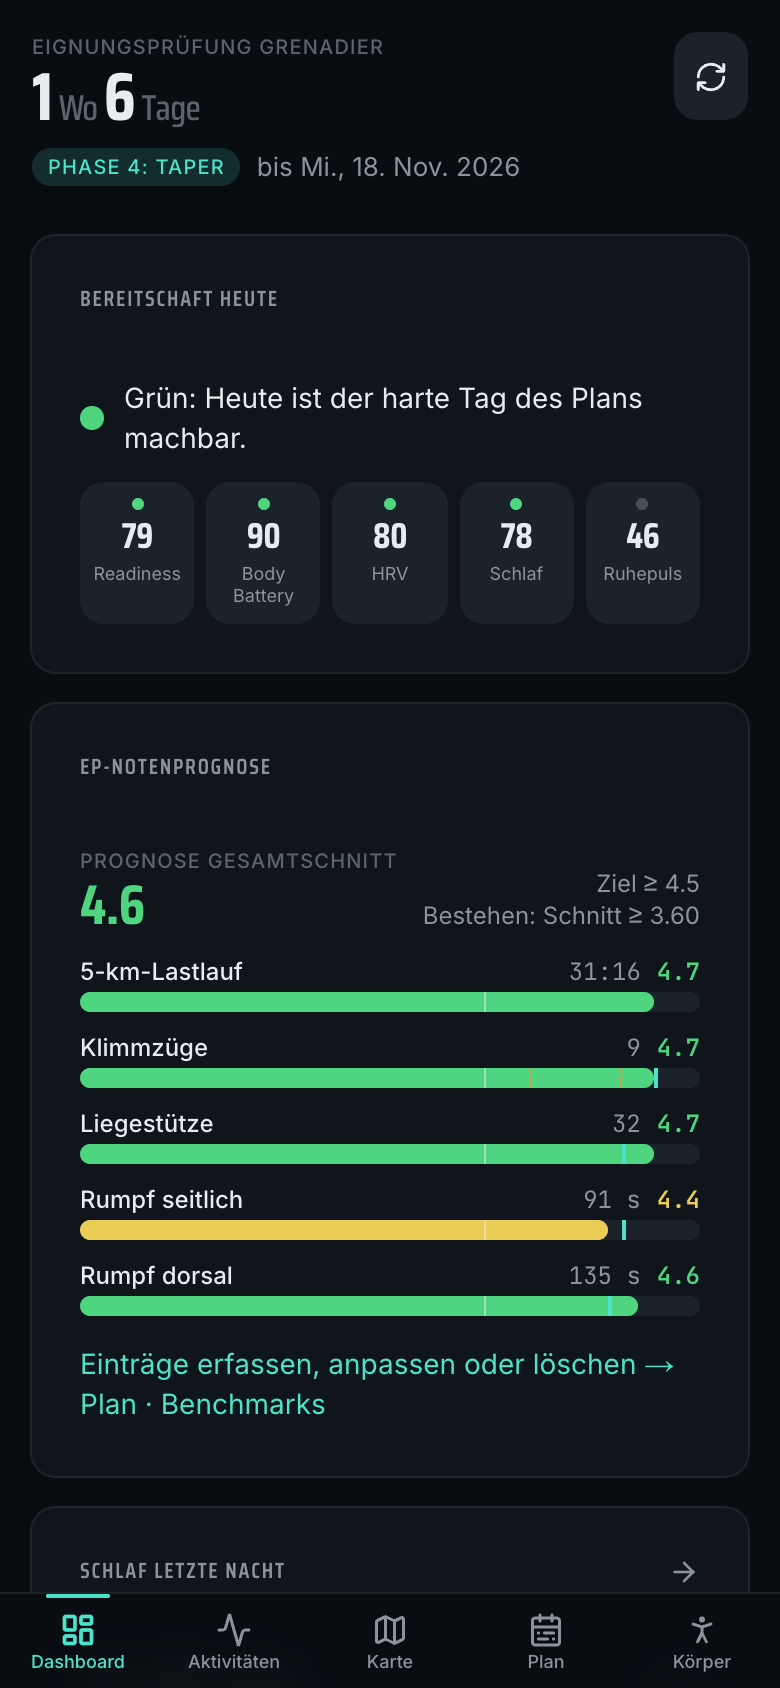
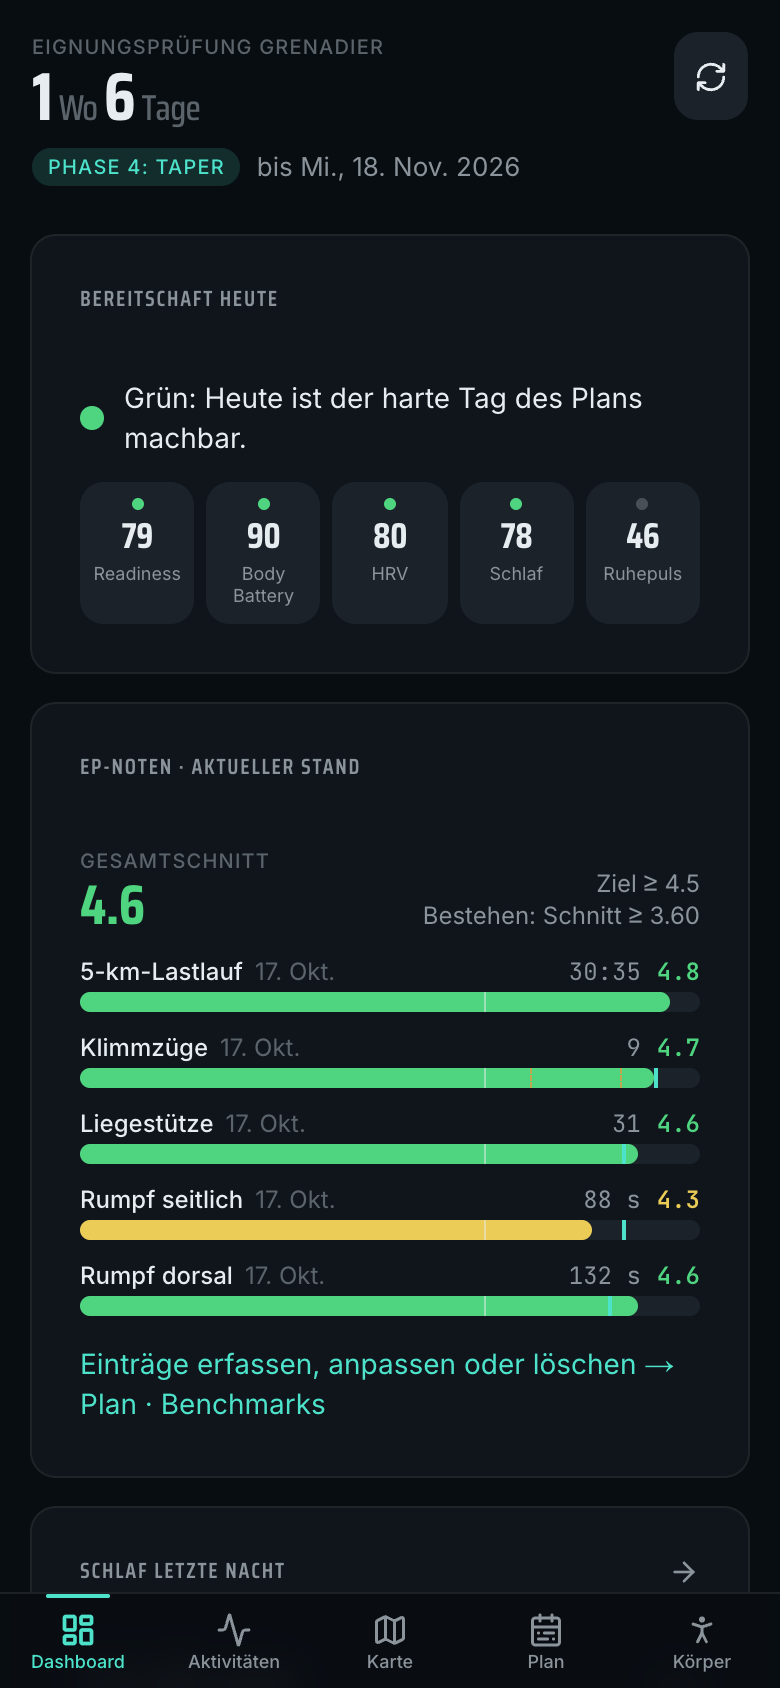
feat: EP-Noten zeigen nur eigene Messwerte statt Prognose
Die Notenanzeige im Dashboard nimmt je Disziplin den zuletzt erfassten
Benchmark (mit Datum) und dessen Note laut offizieller Tabelle - kein
Trend, kein Lauf-Modell, keine Altersgrenze. Ohne Eintrag bleibt die
Disziplin leer; der Schnitt laeuft ueber die vorhandenen Disziplinen.
Titel jetzt "EP-Noten · aktueller Stand". README, Annahmen und
Dashboard-Screenshots angepasst.

diff --git a/components/dashboard/ep-widget.tsx b/components/dashboard/ep-widget.tsx
@@ -4,7 +4,7 @@ import { useEffect, useState } from "react";
 import Link from "next/link";
 import { BESTEHEN_SCHNITT, EP_DISZIPLINEN, DisziplinId, berechneNote, notenFarbe } from "@/lib/ep/disziplinen";
 import { EpPrognose } from "@/lib/ep/prognose";
-import { formatNote, formatDauer } from "@/lib/format";
+import { formatDatum, formatNote, formatDauer } from "@/lib/format";
 import { cn } from "@/lib/utils";
 
 function wertLabel(id: DisziplinId, wert: number | null): string {
@@ -16,8 +16,9 @@ function wertLabel(id: DisziplinId, wert: number | null): string {
 }
 
 /**
- * EP-Prognose: 5 Disziplinen als horizontale Notenbalken (1.0–5.0) mit
- * Zielmarke, Bestehens-Linie (3.60) und Klimmzug-Stolperkante.
+ * EP-Noten nach dem aktuellen Stand: je Disziplin der zuletzt erfasste Wert
+ * (keine Prognose) als Notenbalken (1.0–5.0) mit Zielmarke,
+ * Bestehens-Linie (3.60) und Klimmzug-Stolperkante.
  */
 export function EpWidget({ prognose }: { prognose: EpPrognose }) {
   const reihenfolge: DisziplinId[] = [
@@ -39,7 +40,7 @@ export function EpWidget({ prognose }: { prognose: EpPrognose }) {
       <div className="flex items-end justify-between">
         <div>
           <div className="text-[10px] font-medium uppercase tracking-[0.06em] text-dim-foreground">
-            Prognose Gesamtschnitt
+            Gesamtschnitt{prognose.fehlendeDisziplinen.length > 0 ? ` · ${5 - prognose.fehlendeDisziplinen.length} von 5 Disziplinen` : ""}
           </div>
           <div
             className="stat-display text-[28px] leading-none"
@@ -68,7 +69,12 @@ export function EpWidget({ prognose }: { prognose: EpPrognose }) {
           return (
             <div key={id}>
               <div className="mb-0.5 flex items-baseline justify-between text-xs">
-                <span className="font-medium">{d.kurzname}</span>
+                <span className="font-medium">
+                  {d.kurzname}
+                  {p.datumLetzte && (
+                    <span className="ml-1.5 font-normal text-dim-foreground">{formatDatum(p.datumLetzte)}</span>
+                  )}
+                </span>
                 <span className="stat-mono text-muted-foreground">
                   {wertLabel(id, p.prognoseWert)}
                   <span
@@ -131,7 +137,7 @@ export function EpWidget({ prognose }: { prognose: EpPrognose }) {
       {prognose.fehlendeDisziplinen.length > 0 && (
         <p className="text-xs text-muted-foreground">
           {prognose.fehlendeDisziplinen.length} Disziplin(en) ohne Benchmark —{" "}
-          <Link href="/plan" className="text-primary underline-offset-2 hover:underline">
+          <Link href="/plan?tab=benchmarks" className="text-primary underline-offset-2 hover:underline">
             im Plan-Tab erfassen
           </Link>
           .

diff --git a/lib/ep/prognose.ts b/lib/ep/prognose.ts
@@ -23,6 +23,8 @@ export interface DisziplinPrognose {
   /** Trend pro Woche im Wert der Disziplin */
   trendProWoche: number | null;
   anzahlMessungen: number;
+  /** Datum der letzten Messung */
+  datumLetzte: string | null;
 }
 
 export interface EpPrognose {
@@ -136,6 +138,7 @@ export function berechneEpPrognose(
           : null,
       trendProWoche: trendWoche,
       anzahlMessungen: eintraege.length,
+      datumLetzte: eintraege.length ? eintraege[eintraege.length - 1].datum : null,
     };
     disziplinen[id] = prognose;
     if (prognose.prognoseNote != null) {
@@ -150,5 +153,44 @@ export function berechneEpPrognose(
     bestanden: ergebnis.bestanden,
     ausschluss: ergebnis.ausschluss,
     fehlendeDisziplinen: ids.filter((id) => prognoseNoten[id] == null),
+  };
+}
+
+/**
+ * Aktueller EP-Stand ohne Prognose: pro Disziplin genau der zuletzt erfasste
+ * Wert und seine Note laut offizieller Tabelle — kein Trend, kein Lauf-Modell,
+ * keine Altersgrenze. So zeigt die Notenanzeige nur selbst gemessene, reale
+ * Werte. Disziplinen ohne Eintrag bleiben leer; der Schnitt läuft über die
+ * vorhandenen, „bestanden" gibt es erst mit allen fünf.
+ */
+export function aktuellerEpStand(benchmarks: BenchmarkEintrag[]): EpPrognose {
+  const ids = Object.keys(EP_DISZIPLINEN) as DisziplinId[];
+  const disziplinen = {} as Record<DisziplinId, DisziplinPrognose>;
+  const noten: Partial<Record<DisziplinId, number>> = {};
+  for (const id of ids) {
+    const eintraege = benchmarks
+      .filter((b) => b.disziplin === id)
+      .sort((a, b) => a.datum.localeCompare(b.datum));
+    const letzte = eintraege[eintraege.length - 1] ?? null;
+    const note = letzte ? berechneNote(id, letzte.wert) : null;
+    disziplinen[id] = {
+      disziplin: id,
+      aktuellerWert: letzte?.wert ?? null,
+      aktuelleNote: note,
+      prognoseWert: letzte?.wert ?? null,
+      prognoseNote: note,
+      trendProWoche: null,
+      anzahlMessungen: eintraege.length,
+      datumLetzte: letzte?.datum ?? null,
+    };
+    if (note != null) noten[id] = note;
+  }
+  const ergebnis = bewerteEp(noten);
+  return {
+    disziplinen,
+    schnitt: ergebnis.schnitt,
+    bestanden: ergebnis.bestanden,
+    ausschluss: ergebnis.ausschluss,
+    fehlendeDisziplinen: ids.filter((id) => noten[id] == null),
   };
 }

diff --git a/lib/ep/__tests__/ep.test.ts b/lib/ep/__tests__/ep.test.ts
@@ -1,6 +1,6 @@
 import { describe, expect, it } from "vitest";
 import { benchmarkWertAlsText, berechneNote, bewerteEp, notenFarbe, notenStufe, parseBenchmarkWert, wertFuerNote } from "../disziplinen";
-import { berechneEpPrognose } from "../prognose";
+import { aktuellerEpStand, berechneEpPrognose } from "../prognose";
 import { aktuellePhase, berechnePhasen, epCountdown, restwochen } from "../phasen";
 import { EP_DATUM, EP_TAG_2, TAPER_START } from "../konstanten";
 
@@ -269,5 +269,31 @@ describe("Benchmark-Eingabe", () => {
   it("zeigt Lastlauf-Werte als mm:ss", () => {
     expect(benchmarkWertAlsText({ disziplin: "lastlauf", wert: 1993 })).toBe("33:13");
     expect(benchmarkWertAlsText({ disziplin: "klimmzuege", wert: 8 })).toBe("8");
+  });
+});
+
+describe("aktuellerEpStand (Notenanzeige ohne Prognose)", () => {
+  it("nimmt je Disziplin den zuletzt erfassten Wert, ohne Trend und ohne Altersgrenze", () => {
+    const stand = aktuellerEpStand([
+      { datum: "2026-08-13", disziplin: "rumpf_seitlich", wert: 70 },
+      { datum: "2026-08-13", disziplin: "klimmzuege", wert: 6 },
+      { datum: "2026-08-23", disziplin: "klimmzuege", wert: 7 },
+      { datum: "2026-09-24", disziplin: "klimmzuege", wert: 8 },
+      { datum: "2026-10-01", disziplin: "rumpf_dorsal", wert: 125 },
+    ]);
+    expect(stand.disziplinen.klimmzuege.prognoseWert).toBe(8);
+    expect(stand.disziplinen.klimmzuege.prognoseNote).toBe(4.5);
+    expect(stand.disziplinen.klimmzuege.datumLetzte).toBe("2026-09-24");
+    expect(stand.disziplinen.klimmzuege.trendProWoche).toBeNull();
+    expect(stand.disziplinen.rumpf_seitlich.prognoseNote).toBe(4.0); // auch nach > 90 Tagen
+    expect(stand.disziplinen.lastlauf.prognoseWert).toBeNull(); // kein Eintrag → keine Prognose
+    expect(stand.fehlendeDisziplinen).toEqual(["lastlauf", "liegestuetze"]);
+    expect(stand.schnitt).toBeCloseTo((4.5 + 4.0 + 4.5) / 3, 6);
+    expect(stand.bestanden).toBeNull(); // erst mit allen fünf
+  });
+  it("leer → keine Noten", () => {
+    const stand = aktuellerEpStand([]);
+    expect(stand.schnitt).toBeNull();
+    expect(stand.fehlendeDisziplinen).toHaveLength(5);
   });
 });

diff --git a/lib/server/ep-service.ts b/lib/server/ep-service.ts
@@ -1,11 +1,9 @@
 import { eq } from "drizzle-orm";
 import { getDb, tables } from "@/lib/db";
 import { ladeProfil, Profil } from "@/lib/profile";
-import { berechneEpPrognose, EpPrognose } from "@/lib/ep/prognose";
+import { aktuellerEpStand, EpPrognose } from "@/lib/ep/prognose";
 import { DisziplinId } from "@/lib/ep/disziplinen";
 import { lastlaufPrognose } from "@/lib/engine/paces";
-import { heuteIso } from "@/lib/format";
-import { EP_DATUM } from "@/lib/ep/konstanten";
 
 export interface LaufModell {
   fuenfKmS: number | null;
@@ -46,15 +44,13 @@ export async function ladeEpPrognose(): Promise<{
   const profil = await ladeProfil();
   const benchmarks = await db.select().from(tables.epBenchmarks);
   const laufModell = await ladeLaufModell();
-  const prognose = berechneEpPrognose(
+  // Notenanzeige nur mit selbst erfassten Werten: kein Trend, kein Lauf-Modell
+  const prognose = aktuellerEpStand(
     benchmarks.map((b) => ({
       datum: b.datum,
       disziplin: b.disziplin as DisziplinId,
       wert: b.wert,
-    })),
-    heuteIso(),
-    EP_DATUM,
-    lastlaufModellSekunden(laufModell, profil)
+    }))
   );
   return { prognose, profil, laufModell };
 }

diff --git a/lib/server/dashboard-service.ts b/lib/server/dashboard-service.ts
@@ -1,8 +1,7 @@
 import { and, asc, desc, eq, gte, inArray, isNull, lte, sql } from "drizzle-orm";
 import { getDb, tables } from "@/lib/db";
 import { ladeProfil, PROFIL_DEFAULTS, Profil } from "@/lib/profile";
-import { EpPrognose, berechneEpPrognose } from "@/lib/ep/prognose";
-import { EP_DATUM } from "@/lib/ep/konstanten";
+import { EpPrognose, aktuellerEpStand } from "@/lib/ep/prognose";
 import { ladeEpPrognose } from "./ep-service";
 import { addTage, heuteIso, isoDatum, montagVon } from "@/lib/format";
 import { MuskelId } from "@/lib/engine/muscle";
@@ -84,7 +83,7 @@ const LEER: DashboardDaten = {
   fitness: [],
   tsbHeute: null,
   acwrHeute: null,
-  epPrognose: berechneEpPrognose([], heuteIso(), EP_DATUM),
+  epPrognose: aktuellerEpStand([]),
   muskelnHeute: {},
   letzteAktivitaet: null,
   naechsteEinheit: null,

diff --git a/app/page.tsx b/app/page.tsx
@@ -81,7 +81,7 @@ export default async function DashboardPage() {
         <Card className="lg:col-span-2">
           <CardHeader className="pb-2">
             <CardTitle className="text-[11px] font-semibold uppercase tracking-[0.08em] text-muted-foreground">
-              EP-Notenprognose
+              EP-Noten · aktueller Stand
             </CardTitle>
           </CardHeader>
           <CardContent>

diff --git a/README.md b/README.md
@@ -6,11 +6,11 @@
 <p align="center"><strong>Deine Garmin-Daten. Dein Ziel. Ein Plan.</strong></p>
 <p align="center">Eine persönliche Trainings-App für die Vorbereitung auf die Eignungsprüfung der Schweizer Armee-Grenadiere.</p>
 
-![Garmin Hub auf dem Desktop: Dashboard mit EP-Countdown, Bereitschaft, EP-Notenprognose, Schlaf und Fitness-Kurve](docs/screenshots/desktop-dashboard.png)
+![Garmin Hub auf dem Desktop: Dashboard mit EP-Countdown, Bereitschaft, aktuellen EP-Noten, Schlaf und Fitness-Kurve](docs/screenshots/desktop-dashboard.png)
 
 Garmin Hub holt Aktivitäten, Gesundheits- und Schlafdaten von Garmin Connect und
 wertet sie mit einer regelbasierten Engine aus. Daraus entstehen ein Dashboard, ein
-adaptiver Trainingsplan und eine Notenprognose für die Eignungsprüfung (EP). Die EP
+adaptiver Trainingsplan und der aktuelle Notenstand für die Eignungsprüfung (EP). Die EP
 findet am **Mittwoch, 18. November 2026** (Tag 1) und am **Donnerstag, 19. November
 2026** (Tag 2) statt.
 
@@ -33,7 +33,7 @@ Die Oberfläche ist für das Smartphone gestaltet und lässt sich als PWA instal
     <th>Aktivitätsdetail</th>
   </tr>
   <tr>
-    <td><img src="docs/screenshots/mobile-dashboard.png" width="260" alt="Mobiles Dashboard mit EP-Countdown, Bereitschafts-Ampel und Notenprognose"></td>
+    <td><img src="docs/screenshots/mobile-dashboard.png" width="260" alt="Mobiles Dashboard mit EP-Countdown, Bereitschafts-Ampel und aktuellen EP-Noten"></td>
     <td><img src="docs/screenshots/mobile-aktivitaeten.png" width="260" alt="Aktivitätsliste mit Wochengruppen, Minikarten und Kennzahlen"></td>
     <td><img src="docs/screenshots/mobile-aktivitaet.png" width="260" alt="Detail eines Laufs mit Kennzahlen, Karte und Flyover-Steuerung"></td>
   </tr>
@@ -68,11 +68,11 @@ lokalen Datenbank erzeugt. Echte Garmin-Daten kommen in keiner Aufnahme vor.
 
 | Bereich | Funktionen |
 | --- | --- |
-| **Dashboard** | EP-Countdown mit Phase, Bereitschafts-Ampel mit Handlungssatz, EP-Notenprognose, Schlaf der letzten Nacht, Fitness-Kurve (CTL/ATL/TSB), Pace bei gleichem Puls, Muskelstatus, Wochenvergleich, All-Time-Summen und Korrelations-Insights. |
+| **Dashboard** | EP-Countdown mit Phase, Bereitschafts-Ampel mit Handlungssatz, EP-Noten nach aktuellem Stand, Schlaf der letzten Nacht, Fitness-Kurve (CTL/ATL/TSB), Pace bei gleichem Puls, Muskelstatus, Wochenvergleich, All-Time-Summen und Korrelations-Insights. |
 | **Aktivitäten** | Liste mit Filter und Minikarten, Detailseite mit 3D-Flyover, Höhenprofil, Splits, Herzfrequenzzonen, GAP, Effizienz und aerober Entkopplung. Krafttrainings mit Satz-Tabelle und belasteten Muskeln. |
 | **Karte** | Routen-Builder mit Routing per Klick, Undo/Redo, Rückweg, Rundkurs, Höhenprofil, geschätzter Dauer nach eigener Pace, Heatmap, GPX-Export und Senden auf die Uhr. |
 | **Trainingsplan** | Regelbasierter Wochenplan, Anpassung nach jedem Sync, Verfügbarkeit pro Tag, Workout-Generator, Senden auf die Uhr und Rückgängig. |
-| **Eignungsprüfung** | Notentabellen aller fünf Disziplinen, Benchmarks mit Sofort-Note, Prognose, Probe-EP-Modus mit 60-bpm-Metronom, Taper-Plan ab 5. November und abhakbare Checkliste für beide EP-Tage. |
+| **Eignungsprüfung** | Notentabellen aller fünf Disziplinen, Benchmarks mit Sofort-Note (erfassen, anpassen, löschen), aktueller Notenstand, Probe-EP-Modus mit 60-bpm-Metronom, Taper-Plan ab 5. November und abhakbare Checkliste für beide EP-Tage. |
 | **Körper** | Body-Map mit 16 Muskelgruppen, Rest-Erschöpfung aus Kraft- und Laufeinheiten und systemische Ermüdung (TSB, ACWR, HRV-Trend). |
 | **Schlaf** | Kachel im Dashboard und Detailansicht pro Nacht mit Hypnogramm, Phasen, Herzfrequenz, SpO2, Atemfrequenz je Phase, HRV, Stress, Body Battery, Bewegung, Vergleich mit 7 und 30 Tagen und Empfehlungen. |
 | **Garmin** | Chunkweiser Sync mit Fortschritt, täglicher Cron, verschlüsselte Token, MFA-Eingabe und Herzfrequenzzonen direkt aus dem Garmin-Konto. |
@@ -140,8 +140,11 @@ Wirkung auf die Form (TSB) von morgen.
 Alle fünf Disziplinen sind exakt nach der offiziellen **Notentabelle Eignungsprüfung
 EP_AZ SK** hinterlegt ([`lib/ep/disziplinen.ts`](lib/ep/disziplinen.ts)): Marsch 5 km
 mit 20 kg, Klimmzüge, Liegestützen in 60 s, seitliche Rumpfkraft (max. 120 s) und
-dorsale Rumpfkette (max. 150 s). Aus den erfassten Benchmarks entsteht eine Prognose
-pro Disziplin und für den Gesamtschnitt.
+dorsale Rumpfkette (max. 150 s). Die Notenanzeige zeigt nur **selbst gemessene Werte**:
+pro Disziplin den zuletzt erfassten Benchmark mit Datum und Note, dazu den Schnitt der
+vorhandenen Disziplinen. Es gibt bewusst keine Prognose aus Trends oder aus dem
+Lauf-Modell. Benchmarks werden im Plan unter **Benchmarks** erfasst, angepasst und
+gelöscht.
 
 | Note | Bewertung | Bedeutung |
 | --- | --- | --- |
@@ -430,7 +433,7 @@ api/bridge/index.py   Python-Bridge zu Garmin Connect (eine Vercel-Function)
 api/_lib/             Garmin-Client, Sync-Logik, Verschlüsselung, Bridge-Aktionen
 components/           UI nach Bereichen (dashboard, activities, map, plan, body, schlaf)
 lib/engine/           Engine: TRIMP, Fitness, GAP, Riegel, Muskeln, Plan, Taper, Schlaf
-lib/ep/               EP-Disziplinen, Notentabellen, Prognose, Phasen, Checkliste
+lib/ep/               EP-Disziplinen, Notentabellen, Notenstand, Phasen, Checkliste
 lib/server/           Datenbankzugriff und Dienste für die Seiten
 lib/db/               Drizzle-Schema und Verbindung
 drizzle/              SQL-Migrationen
@@ -500,7 +503,7 @@ Das Seed-Skript schreibt nur in lokale Datenbanken und bricht bei jedem anderen 
 - **Inoffizielle API.** Ändert Garmin Endpunkte oder Login, kann der Sync ausfallen, bis die Bibliotheken nachziehen. Für Courses dient GPX-Export als Ausweichweg.
 - **Single User.** Ein Konto, ein Passwort, keine Mandantentrennung.
 - **Bridge lokal nur mit Vercel CLI.** `pnpm dev` startet die Python-Bridge nicht.
-- **Schätzungen.** Muskelmodell, Notenprognose und Schlafwerte sind Modelle bzw. Uhr-Schätzungen, keine Messungen oder Diagnosen.
+- **Schätzungen.** Muskelmodell und Schlafwerte sind Modelle bzw. Uhr-Schätzungen, keine Messungen oder Diagnosen. Die EP-Noten zeigen nur den letzten eigenen Messwert, keinen Ausblick auf den Prüfungstag.
 - **Kraft-Workouts.** Das Garmin-Workout-Format bildet nicht jede Satzstruktur ab; Übungen landen als beschriftete Schritte auf der Uhr.
 - **Hellmodus.** Die App ist Dark-first; die Farben für den Hellmodus existieren, ein Umschalter in der Oberfläche fehlt.
 - **Vercel Hobby.** Function-Laufzeit 60 Sekunden, höchstens 12 Functions, nur tägliche Crons.

diff --git a/docs/ANNAHMEN.md b/docs/ANNAHMEN.md
@@ -13,8 +13,11 @@ Dokumentationspflichtige Annahmen und bewusst kurz gehaltene Zeitfenster.
   laut Tabelle nicht als Ausschluss und wird nur als Warnung angezeigt.
   Bruchteile: Zeiten zählen bis einschliesslich der Grenze (30:00.4 ist schon
   über 30:00), Haltezeiten und Wiederholungen ab der Grenze (69.9 s = 69 s).
-- **Prognose-Dämpfung:** Trends werden auf ±20 % des Ist-Werts gedeckelt
-  und auf reglementarische Maxima (120 s/150 s) geklemmt.
+- **EP-Notenanzeige ohne Prognose:** Das Dashboard zeigt seit dem 5.11.2026 nur
+  den zuletzt erfassten Wert je Disziplin (`aktuellerEpStand` in
+  `lib/ep/prognose.ts`): kein Trend, kein Lauf-Modell, keine Altersgrenze. Die
+  frühere Trend-Prognose (`berechneEpPrognose`, gedämpft auf ±20 %, mit
+  Lauf-Modell für den Marsch) bleibt im Code, wird aber nicht mehr angezeigt.
 - **Health-Backfill:** 365 Tage (in `api/_lib/sync_logic.py` änderbar).
 - **Course-Push:** Das JSON-Schema von `POST /course-service/course` ist
   inoffiziell; sollte Garmin es ändern, dient der GPX-Export als Fallback
@@ -72,8 +75,8 @@ Dokumentationspflichtige Annahmen und bewusst kurz gehaltene Zeitfenster.
   (ältere Zeilen bleiben per Upsert erhalten).
 - **Bewusst bei kurzen Fenstern geblieben**, weil sie aktuelle Zustände
   statt Verläufe zeigen:
-  - EP-Prognose (`lib/ep/prognose.ts`): Benchmarks max. 90 Tage alt — ältere
-    Leistungen sagen über den EP-Tag wenig aus.
+  - EP-Noten: zeigen den zuletzt erfassten Wert, unabhängig vom Alter
+    (siehe „EP-Notenanzeige ohne Prognose").
   - ACWR 7:28 und Wochenvergleich (diese Woche vs. Vorwoche).
   - Körper-Tab (`app/api/body/route.ts`): Muskel-Sparklines 14 Tage
     (Erschöpfung klingt mit τ = 30–48 h ab, ältere Werte sind 0) und
